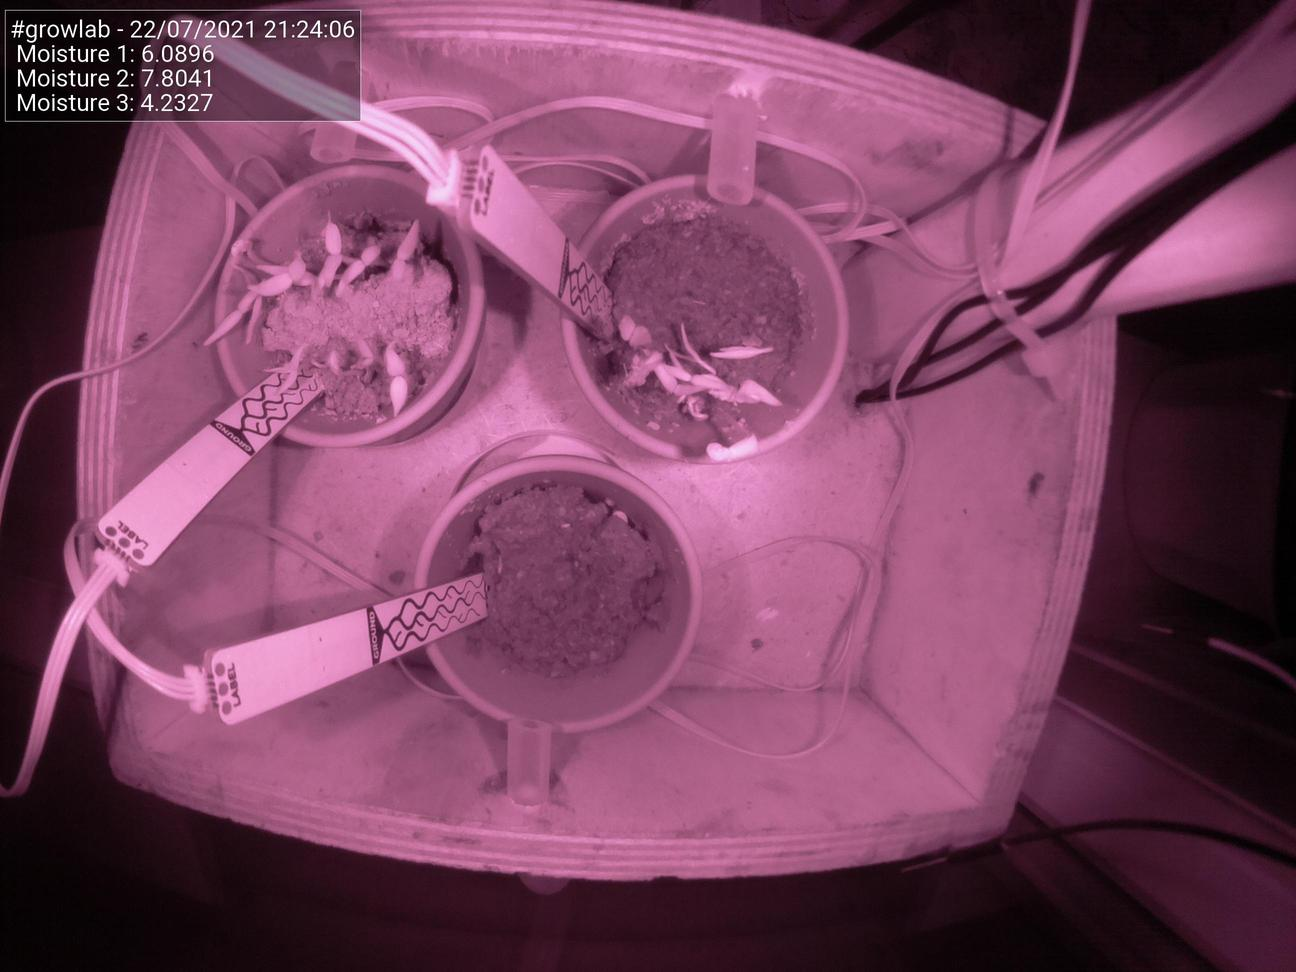
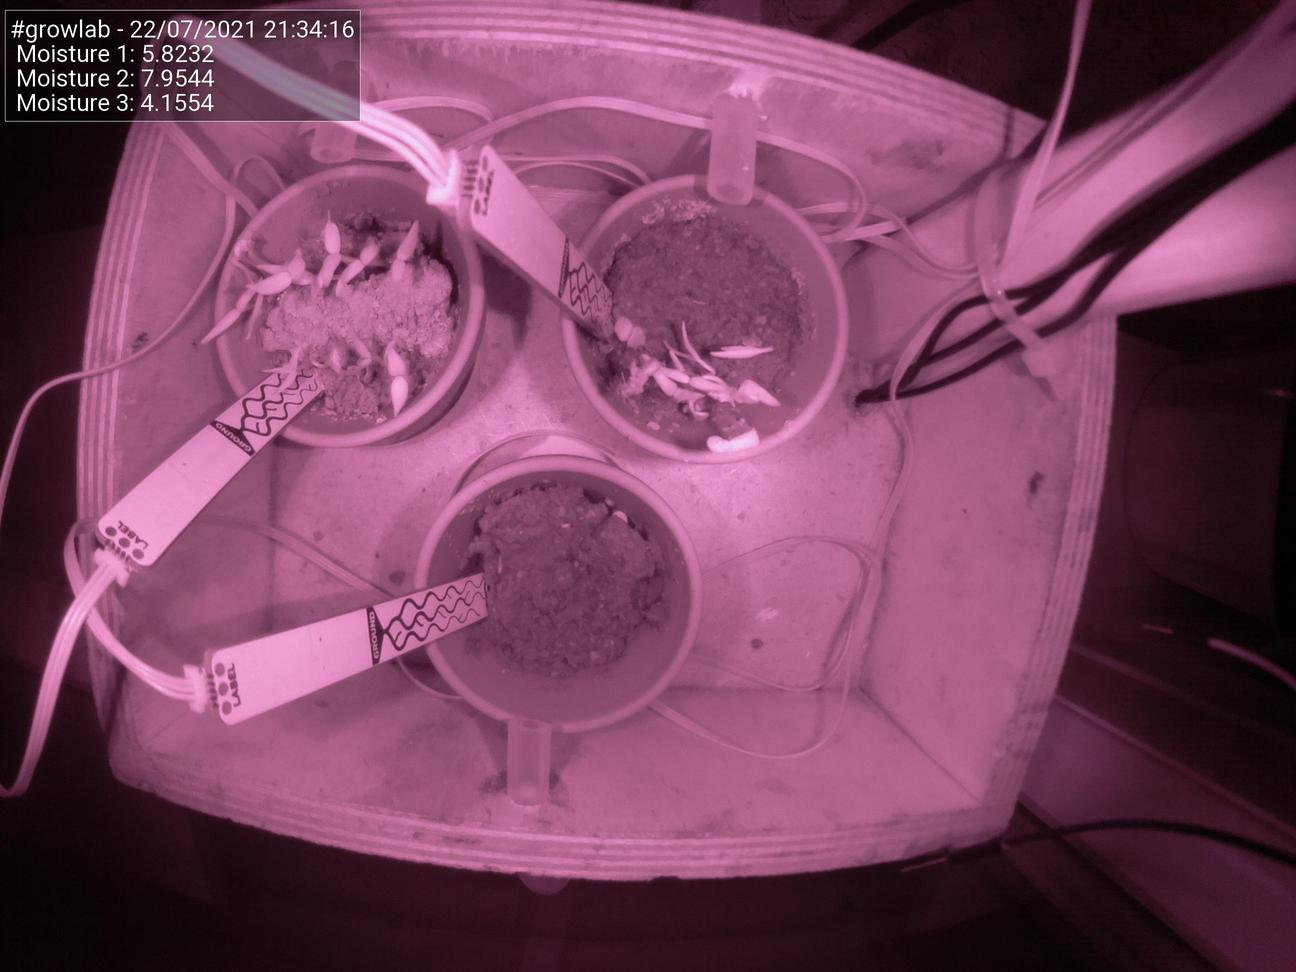
Update images at Thu 22 Jul 21:34:22 BST 2021

diff --git a/docs/index.html b/docs/index.html
@@ -51,25 +51,25 @@
                                 <td>Date</td>
                                 <td>22/07/2021</td>
                                 <td>Time</td>
-                                <td>21:24:06</td>
+                                <td>21:34:16</td>
                             </tr>
                             <tr>
                                 <td>Temperature</td>
                                 <td>N/A</td>
                                 <td>Moisture 1</td>
-                                <td>6.0896</td>
+                                <td>5.8232</td>
                             </tr>
                             <tr>
                                 <td>Humidity</td>
                                 <td>N/A</td>
                                 <td>Moisture 2</td>
-                                <td>7.8041</td>
+                                <td>7.9544</td>
                             </tr>
                             <tr>
                                 <td>Pressure</td>
                                 <td>N/A</td>
                                 <td>Moisture 3</td>
-                                <td>4.2327</td>
+                                <td>4.1554</td>
                             </tr>
                         </tbody>
                     </table>
@@ -77,7 +77,7 @@
 
                 <h5>Latest image</h5>
                 <div style="width: 85%;">
-                            <img class="figure-img img-fluid rounded" src="./preview.jpg?uid=1626985452.4132624">
+                            <img class="figure-img img-fluid rounded" src="./preview.jpg?uid=1626986062.483465">
                 </div>
             </div>
         </div>
